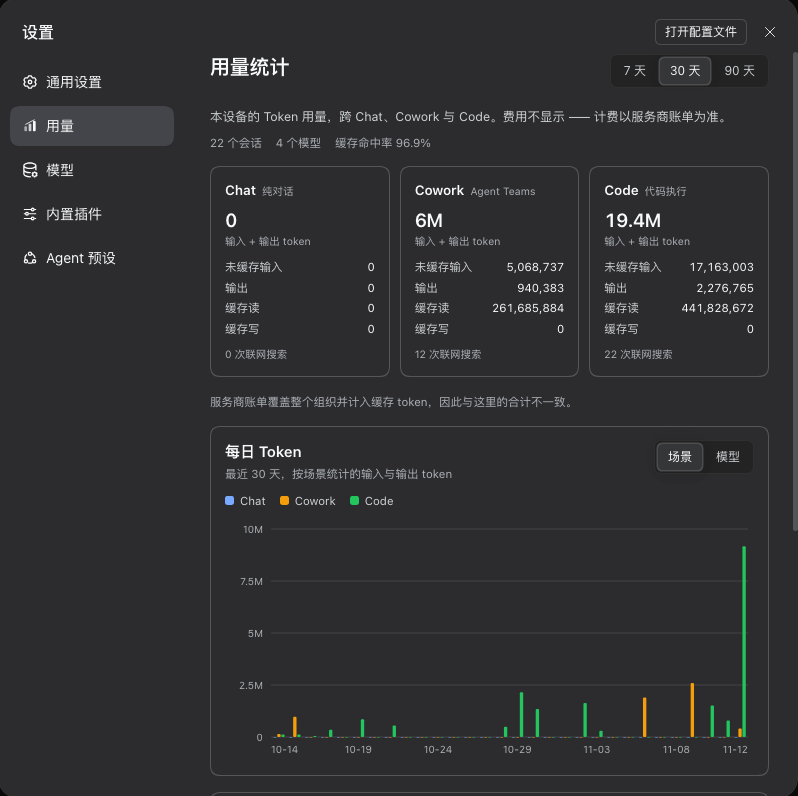
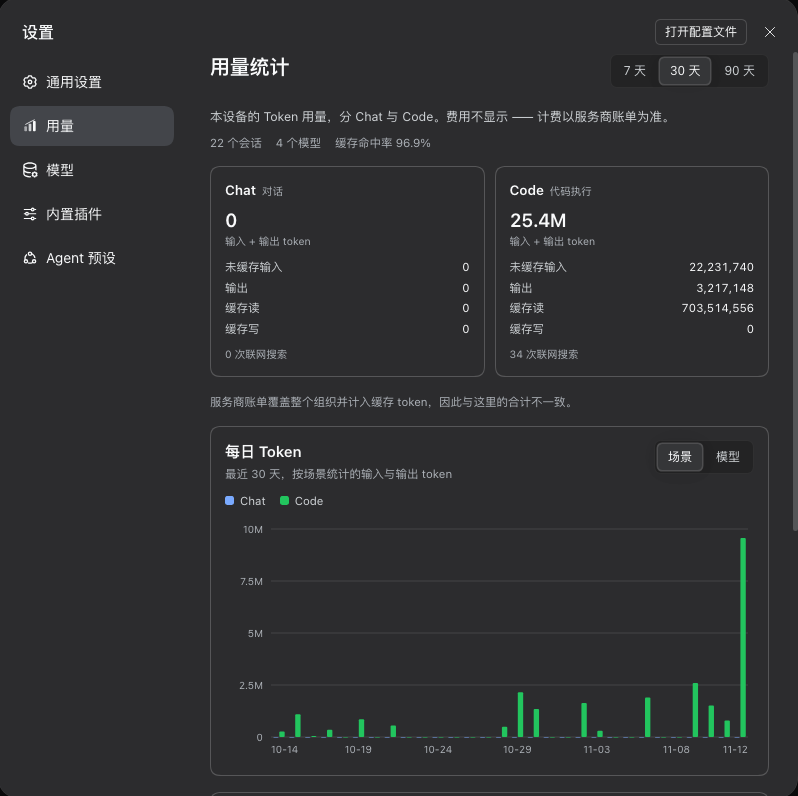
Use Chat and Code scene cards only

diff --git a/client.js b/client.js
@@ -2,7 +2,7 @@
  * @ruaibeite/dsh-usage-stats — browser half.
  *
  * One page in Settings: 「用量 / Usage」. It folds every session on this device
- * into three scene cards (Chat / Cowork / Code), a tokens-per-day bar chart and
+ * into two scene cards (Chat and Code), a tokens-per-day bar chart and
  * a per-model breakdown. The numbers come from the plugin's own host route
  * (`GET /dsh-usage-stats/report`), which reads the local session logs; this
  * half only renders them, switches the 7/30/90 day range, switches the chart
@@ -24,7 +24,7 @@ window.__ModuleLoader__.load({
     /** Selectable ranges, in days. */
     const RANGES = [7, 30, 90]
     /** Scene keys, in card order. */
-    const CATEGORIES = ['chat', 'cowork', 'code']
+    const CATEGORIES = ['chat', 'code']
     /** Chart series cap before the rest is merged into "其他". */
     const MODEL_SERIES_CAP = 6
     /** Quiet refresh cadence while the page is mounted. */
@@ -36,10 +36,10 @@ window.__ModuleLoader__.load({
     const TEXT = {
       zh: {
         'meta.title': '用量统计',
-        'meta.description': '本机 Token 用量：Chat/Cowork/Code 卡片、每日柱状图与按模型明细，全部推导自本地会话日志。',
+        'meta.description': '本机 Token 用量：Chat / Code 两张场景卡片、每日柱状图与按模型明细，全部推导自本地会话日志。',
         'nav': '用量',
         'title': '用量统计',
-        'subtitle': '本设备的 Token 用量，跨 Chat、Cowork 与 Code。费用不显示 —— 计费以服务商账单为准。',
+        'subtitle': '本设备的 Token 用量，分 Chat 与 Code。费用不显示 —— 计费以服务商账单为准。',
         'summary.sessions': '{n} 个会话',
         'summary.models': '{n} 个模型',
         'summary.cacheHit': '缓存命中率 {pct}',
@@ -47,10 +47,8 @@ window.__ModuleLoader__.load({
         'range.30': '30 天',
         'range.90': '90 天',
         'cat.chat': 'Chat',
-        'cat.cowork': 'Cowork',
         'cat.code': 'Code',
-        'cat.chatHint': '纯对话',
-        'cat.coworkHint': 'Agent Teams',
+        'cat.chatHint': '对话',
         'cat.codeHint': '代码执行',
         'metric.input': '未缓存输入',
         'metric.output': '输出',
@@ -93,10 +91,10 @@ window.__ModuleLoader__.load({
       },
       en: {
         'meta.title': 'Usage stats',
-        'meta.description': 'Local token usage: Chat/Cowork/Code cards, tokens per day and a per-model breakdown, all folded from the local session logs.',
+        'meta.description': 'Local token usage: Chat and Code scene cards, tokens per day and a per-model breakdown, all folded from the local session logs.',
         'nav': 'Usage',
         'title': 'Usage',
-        'subtitle': "Token usage on this device across Chat, Cowork, and Code. Costs aren't shown — your provider bills you at its own rates.",
+        'subtitle': "Token usage on this device, split into Chat and Code. Costs aren't shown — your provider bills you at its own rates.",
         'summary.sessions': '{n} sessions',
         'summary.models': '{n} models',
         'summary.cacheHit': '{pct} cache hits',
@@ -104,10 +102,8 @@ window.__ModuleLoader__.load({
         'range.30': '30d',
         'range.90': '90d',
         'cat.chat': 'Chat',
-        'cat.cowork': 'Cowork',
         'cat.code': 'Code',
-        'cat.chatHint': 'conversation only',
-        'cat.coworkHint': 'Agent Teams',
+        'cat.chatHint': 'conversation',
         'cat.codeHint': 'code & tools',
         'metric.input': 'Uncached input',
         'metric.output': 'Output',
@@ -519,7 +515,6 @@ window.__ModuleLoader__.load({
     ]
     const SCENE_COLORS = {
       chat: 'var(--dsw-alias-state-business-primary, #4176e6)',
-      cowork: 'var(--dsw-alias-state-warn-primary, #f59e0b)',
       code: 'var(--dsw-alias-state-success-primary, #22c55e)',
     }
 
@@ -892,9 +887,10 @@ window.__ModuleLoader__.load({
               )
             }
           } else {
-            const gap = Math.min(2, groupWidth * 0.045)
-            const barWidth = clamp((groupWidth * 0.72 - gap * 2) / 3, 1.5, 12)
-            const groupInner = barWidth * 3 + gap * 2
+            const slots = Math.max(1, chart.series.length)
+            const gap = Math.min(3, groupWidth * 0.045)
+            const barWidth = clamp((groupWidth * 0.72 - gap * (slots - 1)) / slots, 1.5, 18)
+            const groupInner = barWidth * slots + gap * (slots - 1)
             const barX = groupX + (groupWidth - groupInner) / 2
             for (let s = 0; s < chart.series.length; s += 1) {
               const value = chart.series[s].values[index] || 0

diff --git a/index.js b/index.js
@@ -41,8 +41,8 @@ export const RANGES = [7, 30, 90]
 /** Default report range in days. */
 export const DEFAULT_RANGE_DAYS = 30
 
-/** Session categories, in display order. */
-export const CATEGORIES = ['chat', 'cowork', 'code']
+/** Session categories, in display order: conversation, then code work. */
+export const CATEGORIES = ['chat', 'code']
 
 /** Delay before the background index warm-up fires after activation. */
 export const WARMUP_DELAY_MS = 4000
@@ -306,32 +306,34 @@ const RE_CWD = /"cwd":"((?:[^"\\]|\\.)*)"/
 /** Tools that make a session "code" (code execution / filesystem mutation). */
 export const CODE_TOOL_PATTERN = /^(bash|pwsh|run_code|terminal|shell|exec|write|edit|apply_patch|str_replace|fs_write|fs_edit|notebook|jobs|job_|workflow|ralph|plugin_manager|worktree)/
 
-/** Tools that make a session "cowork" (Agent Teams). */
+/** Tools that make a session "cowork" (Agent Teams) — recorded, no category of its own. */
 export const TEAM_TOOL_PATTERN = /^(spawn_teammate|send_message|team_task_|list_agents|wait_agent|interrupt_agent)/
 
 /** Tools counted as web searches and attributed to the most recent model. */
 export const WEB_TOOL_PATTERN = /^(web_search|web_fetch|websearch|webfetch)/
 
 /**
- * Scenario category of a session from its tool names. Cowork wins over code:
- * an Agent Teams session that also runs code is still a Cowork session.
+ * Scenario category of a session from its tool names: a session that ran any
+ * code-execution tool is `code`, everything else is `chat`.
+ *
+ * Agent Teams tools are recorded separately (`hasTeam`) but no longer name a
+ * category: a session that only coordinated teammates without running code is
+ * counted as chat, because the two cards are "conversation" and "code work".
  *
  * @param toolNames - one tool name or any iterable of names.
- * @returns `cowork`, `code` or `chat`.
+ * @returns `code` or `chat`.
  */
 export function categoryOfTools(toolNames) {
   let hasCode = false
-  let hasTeam = false
   const consume = (name) => {
     if (typeof name !== 'string' || name === '') return
-    if (!hasTeam && TEAM_TOOL_PATTERN.test(name)) hasTeam = true
     if (!hasCode && CODE_TOOL_PATTERN.test(name)) hasCode = true
   }
   if (typeof toolNames === 'string') consume(toolNames)
   else if (toolNames !== null && toolNames !== undefined && typeof toolNames[Symbol.iterator] === 'function') {
     for (const name of toolNames) consume(name)
   }
-  return hasTeam ? 'cowork' : hasCode ? 'code' : 'chat'
+  return hasCode ? 'code' : 'chat'
 }
 
 /** Copy a usage object's four buckets; `null` when it is not a usable sample. */
@@ -649,7 +651,7 @@ function finishSessionFold(state) {
   return {
     createdAt: state.createdAt,
     cwd: state.cwd,
-    category: state.hasTeam ? 'cowork' : state.hasCode ? 'code' : 'chat',
+    category: state.hasCode ? 'code' : 'chat',
     models: Object.keys(providerObject),
     providers: providerObject,
     days: daysObject,

diff --git a/README.md b/README.md
@@ -2,9 +2,9 @@
 
 > Local token usage for this machine, on the Harness settings' **Usage** page · A DeepSeek Harness plugin
 
-**English:** See where this device's tokens went: Chat, Cowork and Code cards, tokens per day, and a per-model breakdown, all folded from the local session logs the Harness already writes.
+**English:** See where this device's tokens went: Chat and Code cards, tokens per day, and a per-model breakdown, all folded from the local session logs the Harness already writes.
 
-**中文：** 看清本机的 token 花在了哪里：Chat / Cowork / Code 三张场景卡片、每日 Token 柱状图、按模型明细，全部推导自 Harness 已经写下的本地会话日志。
+**中文：** 看清本机的 token 花在了哪里：Chat / Code 两张场景卡片、每日 Token 柱状图、按模型明细，全部推导自 Harness 已经写下的本地会话日志。
 
 Everything on the page is derived from session logs DeepSeek Harness records anyway. The plugin adds no prompt, no tool and no model call, writes nothing to your sessions, and never contacts an external service — the page talks to one local route on the Harness host. The same logs always fold into the same numbers.
 
@@ -23,7 +23,7 @@ Everything on the page is derived from session logs DeepSeek Harness records any
 Open the Harness settings panel and choose **Usage** (「用量」) in the left navigation. The page is one scroll, top to bottom:
 
 1. **Title and range** — a 7 / 30 / 90 days switch, 30 days by default; changing it refetches immediately.
-2. **Three scene cards** — Chat, Cowork and Code. Each has input + output as its headline number, four detail rows — Uncached input, Output, Cache read, Cache write — and a count of the web searches its sessions made.
+2. **Two scene cards** — Chat and Code. Each has input + output as its headline number, four detail rows — Uncached input, Output, Cache read, Cache write — and a count of the web searches its sessions made.
 3. **Billing note** — provider bills cover the whole organization and charge for cached tokens, so they will not match these totals.
 4. **Tokens per day** — the bar chart, with a Scene / Model grouping switch and a per-day tooltip.
 5. **By model** — the per-model table with a share bar on every row.
@@ -33,7 +33,7 @@ A few details:
 
 - **Headline vs. detail.** A card's big number is input + output; cache is excluded, as on the reference page. Cache reads and writes are listed separately because providers bill them differently. Detail rows show exact counts with thousands separators; headlines and the chart use compact K/M/B values.
 - **Summary chips.** Under the subtitle: sessions with activity in the range, models in the range, and the cache hit rate — cache reads ÷ (input + cache reads + cache writes).
-- **Chart.** In Scene mode each day has three grouped bars — Chat, Cowork, Code — in their scene colours. In Model mode each day is one stacked bar for the six largest models plus “Other”. Five value ticks, about six date labels, and a tooltip per hovered day with each series' value and the day's total. An empty range says “No usage in this period yet”.
+- **Chart.** In Scene mode each day has two grouped bars — Chat, Code — in their scene colours. In Model mode each day is one stacked bar for the six largest models plus “Other”. Five value ticks, about six date labels, and a tooltip per hovered day with each series' value and the day's total. An empty range says “No usage in this period yet”.
 - **Table.** Rows are sorted by input + output. One model id is one row even when more than one provider served it; the providers are listed under the model name. Four columns: model, input + output, cache read, share. The input + output cell carries the exact input and output counts in its hover title; share is the model's input + output over all models in the range, drawn as a small bar plus a percentage, and a total row closes the table.
 - **Refresh and loading.** The first open shows skeletons and “Summing up this device's sessions…” while the first scan runs. After that the page polls every 10 s while it is visible, and Refresh re-requests immediately. A failed refresh keeps the last numbers and marks the footer.
 - **Theme and language.** The page follows the Harness light/dark theme and its language setting — UI copy, the settings nav label and the chart's date labels all follow the DSH language — uses the Harness' own `--dsw-*` design tokens, and turns its animation off under `prefers-reduced-motion: reduce`.
@@ -67,17 +67,16 @@ The numbers follow the Harness' own `tokenUsage` accounting rather than a second
 
 That is what lets per-session totals match the `tokenUsage` projection cache the Harness keeps (`$DSH_HOME/storages/session_projcache`); the two reconcile session by session.
 
-### What Chat, Cowork and Code mean
+### What Chat and Code mean
 
-The page this plugin takes its layout from — the Usage page in Claude desktop — splits usage into three entry points: Chat, Cowork and Code. DSH has no such entry points, so the plugin maps each session to one scene from the tools it used, Agent Teams first:
+The page this plugin takes its layout from — the Usage page in Claude desktop — splits usage by entry point. This plugin keeps two of those buckets and drops the third, because DSH has no separate Cowork product: it maps each session to one scene from the tools it used.
 
 | Card | The session used … |
 | --- | --- |
-| Cowork · Agent Teams | any Agent Teams tool: `spawn_teammate`, `send_message`, `team_task_*`, `list_agents`, `wait_agent`, `interrupt_agent` |
 | Code · code execution | any code-execution tool: `bash`, `pwsh`, `run_code`, `terminal`, `shell`, `exec`, `write`, `edit`, `apply_patch`, `str_replace*`, `fs_write`, `fs_edit`, `notebook`, `jobs`, `job_*`, `workflow`, `ralph`, `plugin_manager`, `worktree` |
-| Chat · pure conversation | neither of the above |
+| Chat · conversation | none of the code-execution tools above |
 
-A scene belongs to the whole session, not to a turn: a session that used Agent Teams anywhere is Cowork. This is a deliberate approximation of the reference split, not a claim that DSH sessions are those products. If you never use code or team tools, everything lands under Chat.
+A scene belongs to the whole session, not to a turn. Agent Teams tools (`spawn_teammate`, `send_message`, `team_task_*`, `list_agents`, `wait_agent`, `interrupt_agent`) are still recognised and recorded, but they no longer name a scene: a session that only coordinated teammates without running code counts as Chat, and a session that also ran code counts as Code. This is a deliberate approximation of the reference page, not a claim that DSH sessions are those products.
 
 ### Index cache and speed
 
@@ -124,7 +123,7 @@ Two plain-Node suites, no dependencies. `test/host.mjs` covers the zstd frame sc
 - **Only what is on disk.** The report is a snapshot of the session logs under the current `$DSH_HOME` at request time; logs that were deleted, or that live under another DSH home, are not counted.
 - **The first scan is not instant.** Its cost scales with the size of the log library — roughly 3–10 s for hundreds of megabytes — and the page shows skeletons meanwhile.
 - **Web searches are an approximation.** The count comes from `web_search`, `web_fetch`, `websearch` and `webfetch` tool calls in the logs; it is not the provider's billed search count, and searches outside DSH are invisible.
-- **Chat / Cowork / Code is a mapping.** Each session gets exactly one scene from its tools, Agent Teams first. It approximates the reference page's three entry points rather than describing those products' own usage types.
+- **Chat / Code is a mapping.** Each session gets exactly one scene from the tools it used: Code for sessions that ran a code-execution tool, Chat for everything else. It approximates the reference page's entry points rather than describing a product's own usage types.
 - **Local timezone.** Days are bucketed in the host's local timezone; travelling or a daylight-saving change rebuilds the index and can move a bar to another date (the tokens are not lost).
 - **No cost.** Prices are deliberately absent; the provider bill is the billing source of truth.
 

diff --git a/.market/pr-body.md b/.market/pr-body.md
@@ -7,7 +7,7 @@ Adds one entry file:
 - Single entry; no other files touched, and the generated READMEs are left untouched.
 - The repository declares `dsh.bundle` in `package.json` (with `cordis.patch.yml`) and ships real host + client code.
 - `dsh-plugin` topic is set on the repository.
-- Description states what the code does: the host half scans the local session logs (`$DSH_HOME/sessions/**/session.v4.jsonl.zstd`), parses their multi-frame zstd container, and folds the provider-reported usage with the same accounting as DSH's own `tokenUsage` projection; the client half adds a **Usage** section to Settings with three scene cards (Chat / Cowork / Code, each with input, output, cache-read and cache-write rows and a web-search count), a daily token bar chart switchable between scene and model grouping with a per-day tooltip, and a per-model table that merges one model id across providers with share bars and an exact total row.
-- Chat / Cowork / Code are a documented mapping, not DSH product names: Cowork = sessions that used Agent Teams tools, Code = sessions that used code-execution tools, Chat = neither.
+- Description states what the code does: the host half scans the local session logs (`$DSH_HOME/sessions/**/session.v4.jsonl.zstd`), parses their multi-frame zstd container, and folds the provider-reported usage with the same accounting as DSH's own `tokenUsage` projection; the client half adds a **Usage** section to Settings with two scene cards (Chat and Code, each with input, output, cache-read and cache-write rows and a web-search count), a daily token bar chart switchable between scene and model grouping with a per-day tooltip, and a per-model table that merges one model id across providers with share bars and an exact total row.
+- Chat / Code is a documented mapping, not a DSH product name: Code = sessions that ran a code-execution tool, Chat = sessions that ran none of them. Agent Teams tools are recognised but do not form a separate scene.
 - Icon is a GitHub-hosted raster (`assets/icon-180.png`); three real screenshots are declared in the repository's own `screenshots.json` (`assets/screenshot-usage-light.png`, `screenshot-usage-models.png`, `screenshot-usage-dark.png`: light scene view, model grouping, dark theme).
 - No npm package; installs from GitHub. The repository was created immediately before this PR, so the submission gate's 1-day repository-age check will fail until it clears on its own; nothing else is pending.
